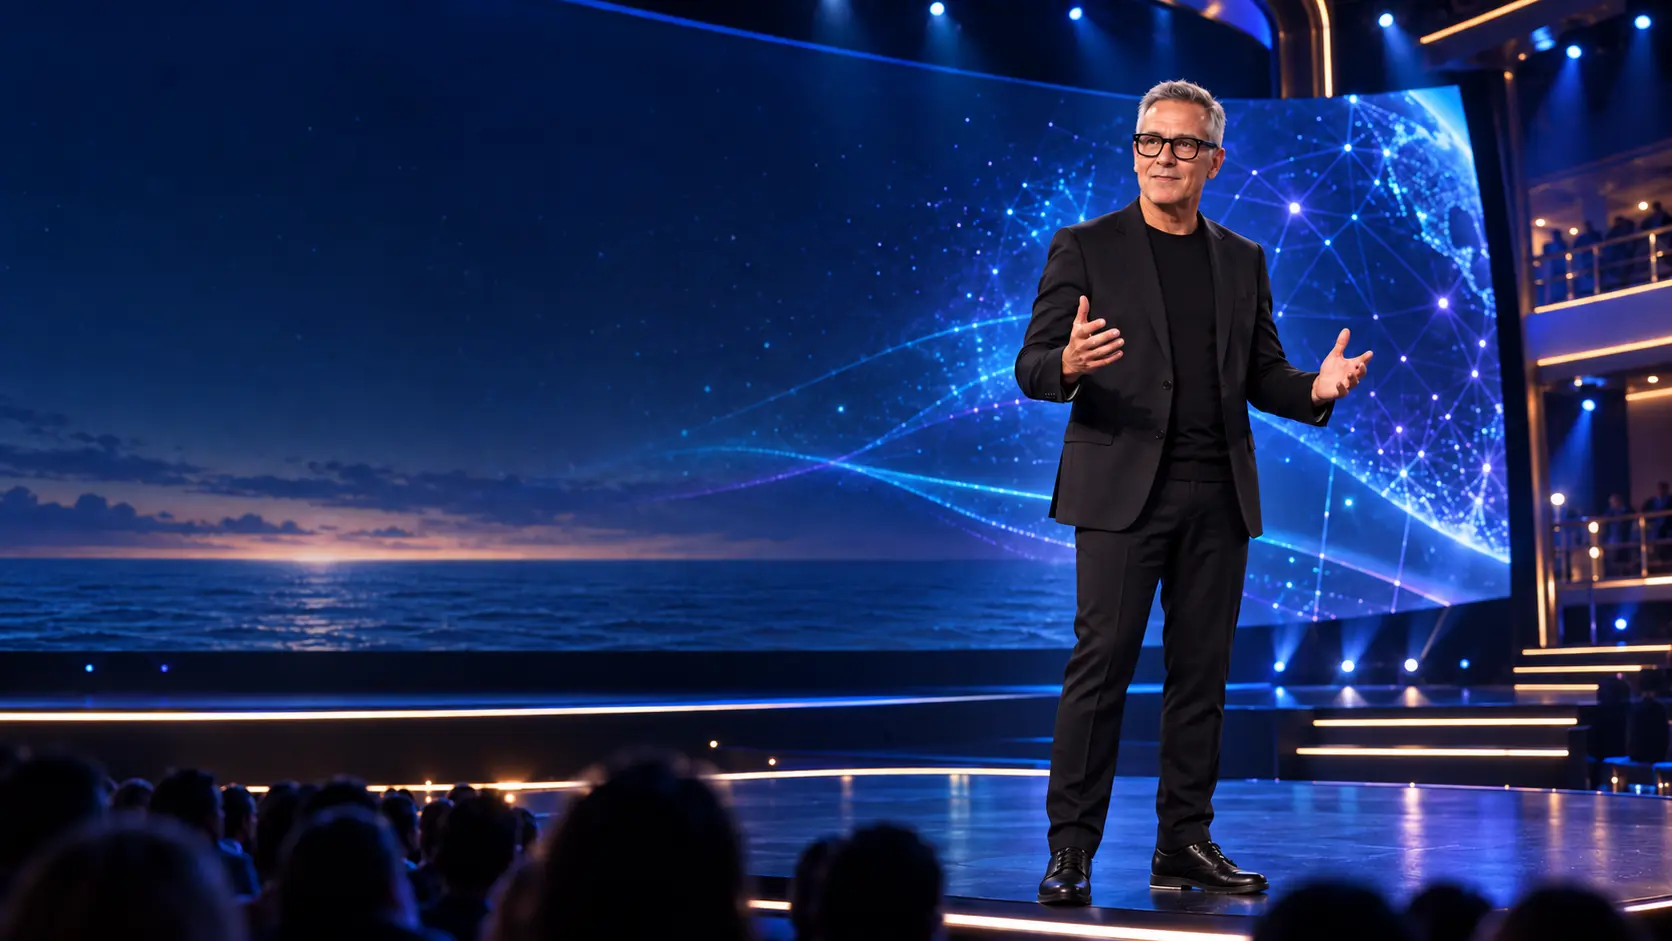
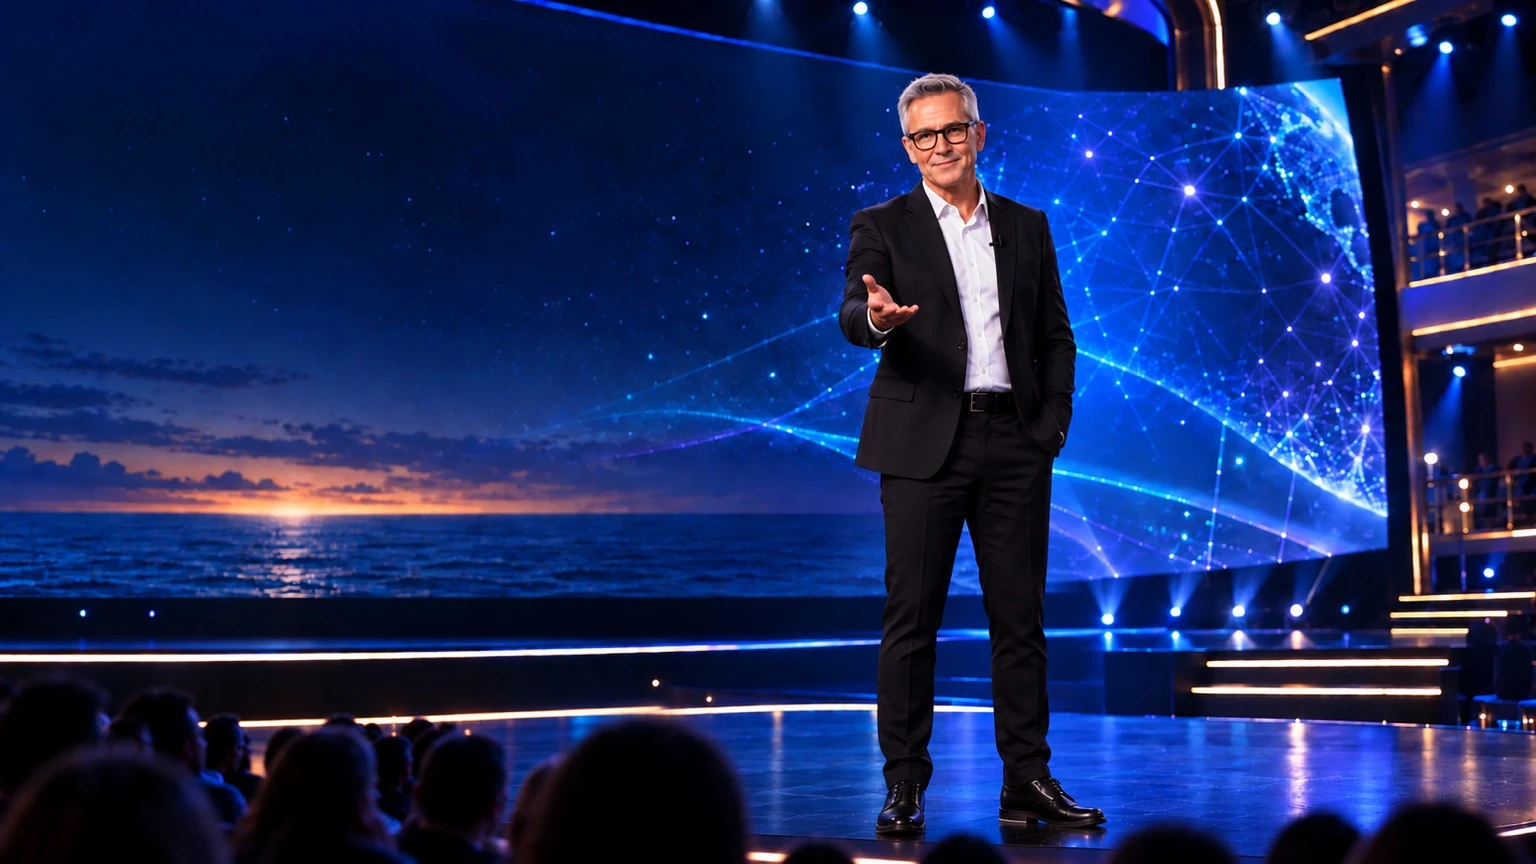
Replace hero with David's approved audience-facing stage image

diff --git a/index.html b/index.html
@@ -212,7 +212,7 @@
 
   <main id="main">
     <section class="hero" aria-labelledby="hero-title">
-      <img class="hero-image" src="ai-at-sea-assets/david-ai-keynote-hero.webp" width="1672" height="941" fetchpriority="high" decoding="async" alt="David Lewis demonstrating artificial intelligence on a cruise theater stage">
+      <img class="hero-image" src="ai-at-sea-assets/david-ai-keynote-hero.webp?v=20260909-hero2" width="1536" height="864" fetchpriority="high" decoding="async" alt="David Lewis demonstrating artificial intelligence on a cruise theater stage">
       <div class="hero-shade"></div>
       <div class="hero-content">
         <p class="eyebrow"><span></span> Cruise Enrichment Programs</p>

diff --git a/docs/ai-at-sea/BRAND.md b/docs/ai-at-sea/BRAND.md
@@ -46,3 +46,7 @@ Existing section surfaces include #080D19 (topics), #10192C (experience), #EEF1F
 Keep the native expandable details, collapsed initially, with full-width “View session details” / “Hide session details” buttons and plus/minus affordances. Do not revert to an ambiguous bare chevron. Preserve native keyboard behavior.
 
 Write concrete guest outcomes and concise buyer information. No fabricated statistics, clients or testimonials. Do not add outbound promotional/tool links; the existing LinkedIn link is approved. New editorial copy must follow STRATEGY.md.
+
+## Latest hero approval — September 9, 2026
+
+David supplied `A62FE404-DDFB-486E-BBAB-ECE704BFAA5A.jpeg` to replace the stage hero. The 1536×864 (16:9) image shows David in a black suit and white shirt, facing the audience with a palm-up gesture. Delivered as `david-ai-keynote-hero.webp`, preserving the supplied composition; the homepage reserves its actual dimensions and versions the image URL for cache refresh. Preserve this approved image until explicitly replaced.
